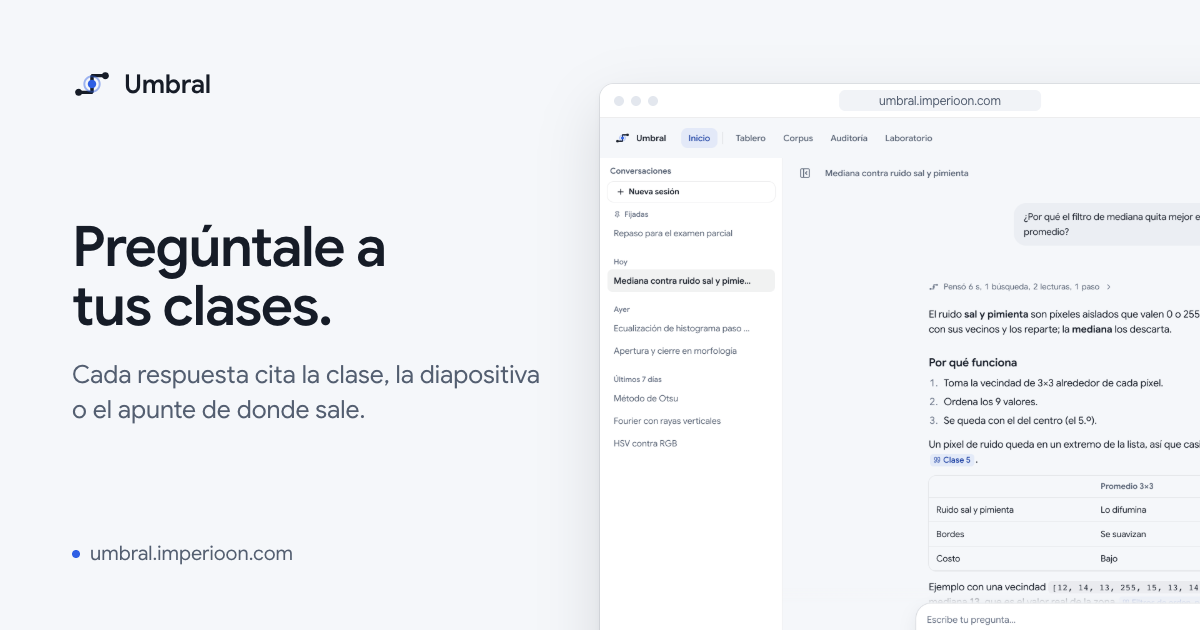
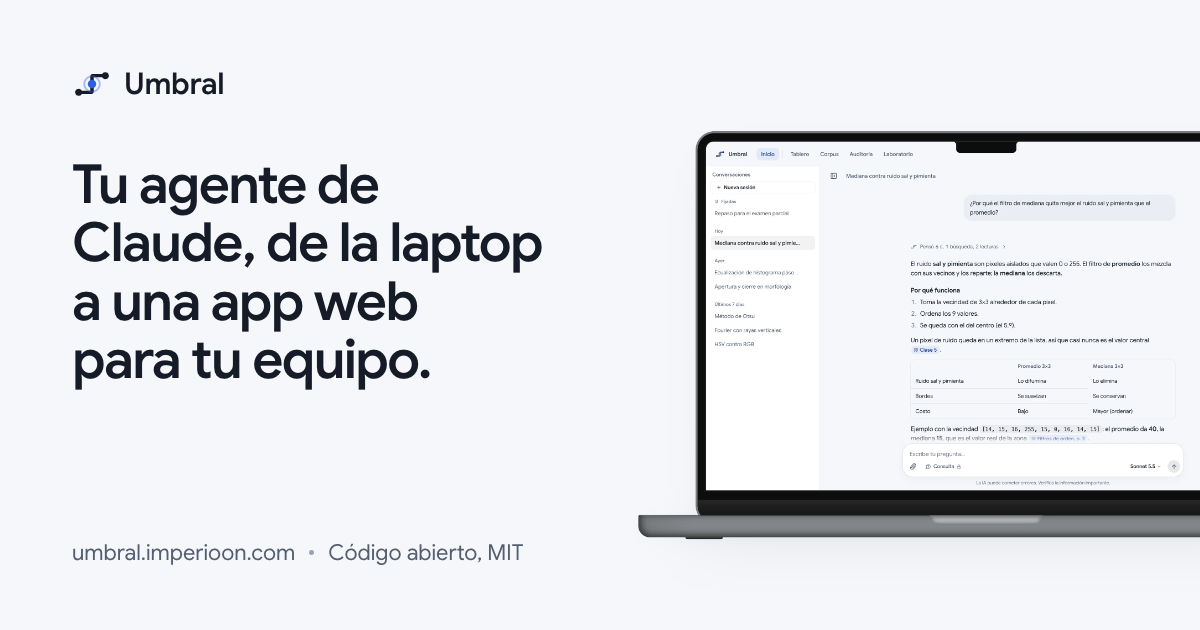
Miniatura nueva al compartir el enlace
La anterior decía «Pregúntale a tus clases», el mensaje de antes del
rediseño. La nueva repite el titular de la landing («Tu agente de Claude, de
la laptop a una app web para tu equipo») junto a la MacBook con el chat, sobre
el lienzo claro de la app, sin degradados: es lo que se ve primero al
compartir en LinkedIn, X o WhatsApp, y debe leerse en una miniatura de 500 px.
1200×630, 108 KB.

La fuente está en scripts/og/og.html y se regenera con
`node scripts/og/generar.mjs` (Playwright + Chrome; falla si no carga Google
Sans). og:image y twitter:image suben a ?v=4 para que las redes no sigan
mostrando la miniatura guardada.

Claude-Session: https://claude.ai/code/session_013zWodJRKJa8hVf7LzjJGM9

diff --git a/scripts/og/og.html b/scripts/og/og.html
@@ -1,0 +1,51 @@
+<!doctype html>
+<!--
+  Miniatura al compartir (Open Graph / Twitter): 1200×630.
+  Fuente de frontend/public/og.png. Se regenera con `node scripts/og/generar.mjs`.
+  Sobria y de marca: el titular de la landing y la MacBook con el chat, sobre
+  el lienzo claro de la app (--bg). Sin degradados de adorno; el texto a un
+  tamaño que se lee en la miniatura de 500 px de LinkedIn o X.
+-->
+<html lang="es-MX">
+<head>
+<meta charset="utf-8">
+<style>
+  @font-face {
+    font-family: 'Google Sans Variable';
+    font-weight: 400 700;
+    src: url(../../frontend/src/assets/fuentes/google-sans-latin-wght-normal.woff2) format('woff2-variations');
+  }
+  :root { --bg: #f5f7fa; --text-1: #161c27; --text-2: #535e70; --accent: #2f5fe4; --hairline: #e3e7ee; }
+  * { margin: 0; box-sizing: border-box; }
+  html, body { width: 1200px; height: 630px; overflow: hidden; background: var(--bg); }
+  body { position: relative; font-family: 'Google Sans Variable', system-ui, sans-serif; color: var(--text-1); -webkit-font-smoothing: antialiased; }
+  .texto { position: absolute; left: 72px; top: 64px; width: 500px; height: 502px; display: flex; flex-direction: column; }
+  .marca { display: flex; align-items: center; gap: 12px; font-size: 30px; font-weight: 600; letter-spacing: -0.01em; }
+  .marca svg { width: 40px; height: 40px; }
+  h1 { margin-top: 52px; font-size: 54px; line-height: 1.08; font-weight: 600; letter-spacing: -0.03em; text-wrap: balance; }
+  .pie { margin-top: auto; display: flex; align-items: center; gap: 14px; font-size: 22px; color: var(--text-2); }
+  .pie .punto { width: 5px; height: 5px; border-radius: 50%; background: #9aa3b2; }
+  /* La Mac manda: entra desde la derecha y se corta abajo, como en la portada. */
+  .mac { position: absolute; left: 596px; top: 92px; width: 780px; height: auto; }
+</style>
+</head>
+<body>
+  <div class="texto">
+    <div class="marca">
+      <svg viewBox="0 0 24 24" aria-hidden="true">
+        <path d="M3 17h9V7h9" fill="none" stroke="#161c27" stroke-width="2" stroke-linecap="round" stroke-linejoin="round"/>
+        <circle cx="12" cy="12" r="4.6" fill="none" stroke="#2f5fe4" stroke-width="1.2" opacity="0.38"/>
+        <circle cx="4" cy="17" r="2.1" fill="#161c27"/>
+        <circle cx="20" cy="7" r="2.1" fill="#161c27"/>
+        <circle cx="12" cy="12" r="2.5" fill="#2f5fe4"/>
+      </svg>
+      Umbral
+    </div>
+    <h1>Tu agente de Claude, de la laptop a una app web para tu equipo.</h1>
+    <div class="pie">
+      <span>umbral.imperioon.com</span><span class="punto"></span><span>Código abierto, MIT</span>
+    </div>
+  </div>
+  <img class="mac" src="../../frontend/public/landing/mac-chat.webp" alt="">
+</body>
+</html>

diff --git a/frontend/src/copy/index.ts b/frontend/src/copy/index.ts
@@ -451,7 +451,7 @@ export const seo = {
     descripcion: 'Pregúntale a tu agente de Claude: cada respuesta cita la fuente de donde sale.',
   },
   imagen: {
-    ruta: '/og.png?v=3',
+    ruta: '/og.png?v=4',
     ancho: 1200,
     alto: 630,
     alt: 'Umbral: tu agente de Claude, de la laptop a una app web para tu equipo. Una MacBook con el chat de Umbral.',
